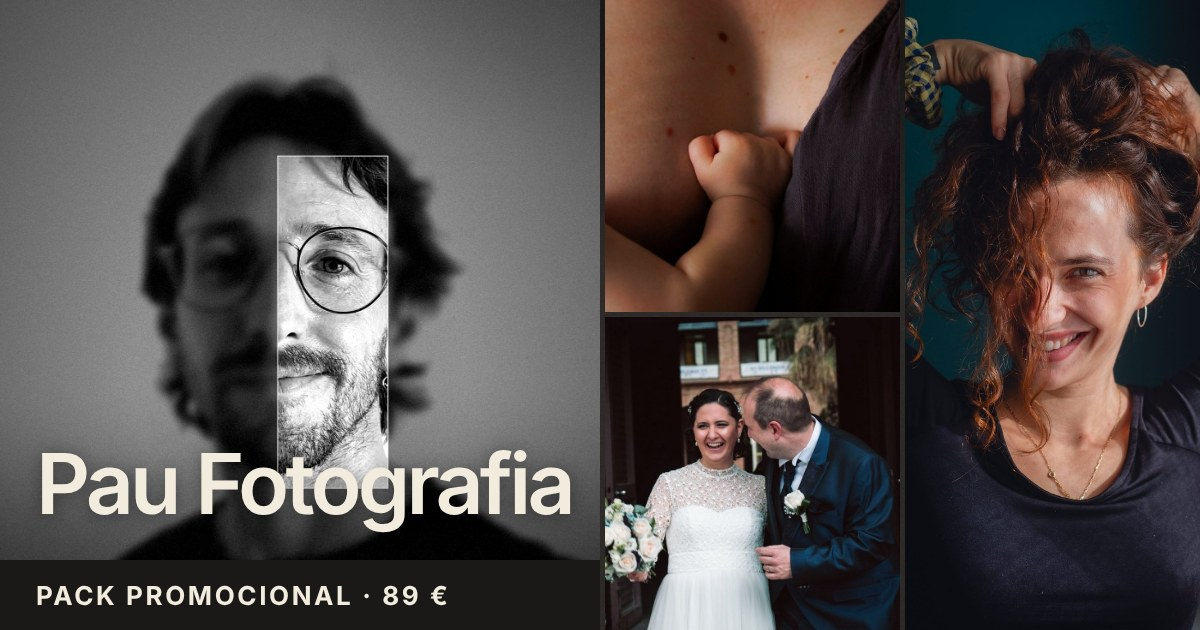
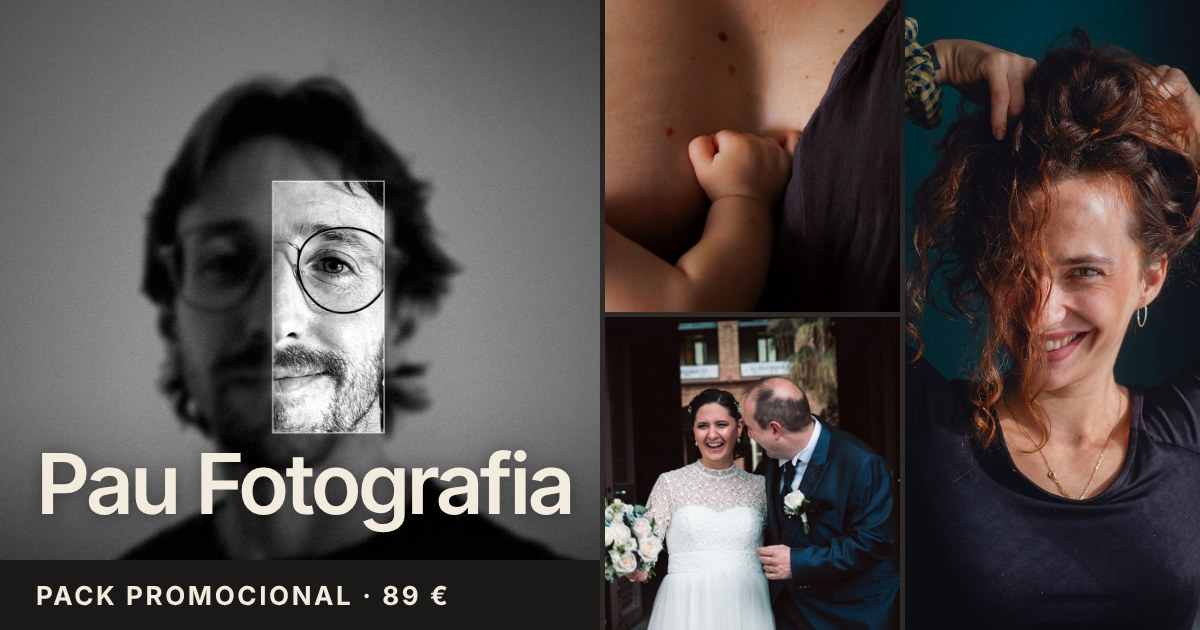
Rectangle de la foto principal més curt i estret; imatge de link actualitzada
Claude-Session: https://claude.ai/code/session_01Gu4fKh15S1mJkh4ThjJ3MW

Changed region(s): [[0.2158, 0.2413, 0.3392, 0.7841]]

diff --git a/index.html b/index.html
@@ -9,7 +9,7 @@
 <meta property="og:type" content="website">
 <meta property="og:title" content="Pau Fotografia · Pack promocional – Llançament · 89 €">
 <meta property="og:description" content="Sessió de 45 min – 1 h, 15 – 20 fotografies. Retrat · Família · Embaràs · Parella. Vàlid per a reserves fins al 31/12/2026.">
-<meta property="og:image" content="https://pau-fotografia.pages.dev/pack/og.jpg?v=9">
+<meta property="og:image" content="https://pau-fotografia.pages.dev/pack/og.jpg?v=10">
 <meta property="og:image:width" content="1200">
 <meta property="og:image:height" content="630">
 <meta property="og:url" content="https://pau-fotografia.pages.dev/">
@@ -217,8 +217,8 @@ button.big{background:none;border:0;padding:0;font-family:inherit;text-align:lef
 }
 
 html,body{background:#1b1918}
[4 lines of base64/hex data omitted]
 body,.page{color:#f2ecde}
 .hero h1,.hero .top{color:#f2ecde}
 .page{background-color:#1b1918;background-image:url(/pack/paper-tile.png?v=2),linear-gradient(180deg,#1b1918 0%,#1b1918 12%,#2d2a28 32%,#2d2a28 100%);background-size:256px 256px,100% 100%;background-blend-mode:overlay,normal}
@@ -258,7 +258,7 @@ body,.page{color:#f2ecde}
 <header class="bar" aria-hidden="true"><a class="wm" href="#inici">Pau Fotografia</a><nav><a href="#contacte" data-t="cont">Contacte</a></nav></header>
 <main class="page" id="inici">
   <section class="hero">
-    <picture><source media="(min-width:1200px)" srcset="/pack/hero-wide.jpg?v=20261118b"><img src="/pack/hero.jpg?v=20261118b" alt="Pau amb ulleres, fons desenfocat i una finestra nítida sobre mig rostre" fetchpriority="high"></picture>
+    <picture><source media="(min-width:1200px)" srcset="/pack/hero-wide.jpg?v=20261118c"><img src="/pack/hero.jpg?v=20261118c" alt="Pau amb ulleres, fons desenfocat i una finestra nítida sobre mig rostre" fetchpriority="high"></picture>
     <div class="top"><div class="sm" data-t="tag">Fotògraf social i documental</div>
       <div class="ctrls"><div class="toggle lang" role="group" aria-label="Idioma"><button class="on" data-lang="ca">CAT</button><span>|</span><button data-lang="es">ESP</button><span>|</span><button data-lang="en">ENG</button></div></div></div>
     <h1>Pau Fotografia</h1>
@@ -269,14 +269,14 @@ body,.page{color:#f2ecde}
     <div class="quote"><p data-t="quote">«El document humà per mantenir el present i el futur en contacte amb el passat.»</p><div class="lb">Lewis Hine</div></div>
   </section>
   <div class="hl"></div>
-  <div class="slider multi sl-elvi" style="aspect-ratio:1080/1150"><div class="track"><figure class="slide"><img class="b" data-v="elvi" src="/pack/elvi-color.jpg?v=20261118b" alt="Elvi somrient amb un floc de cabell davant la cara" loading="eager" style="object-position:50% 30%"><img class="o" data-v="elvi" src="/pack/elvi-bn.jpg?v=20261118b" alt="" aria-hidden="true" loading="lazy" style="object-position:50% 30%"><button class="sw" type="button" aria-label="Veure en blanc i negre"><i></i></button></figure><figure class="slide"><img class="b" data-v="elvi-01" src="/pack/elvi-01-color.jpg?v=20261118b" alt="Elvi amb les mans als cabells" loading="lazy" style="object-position:50% 30%"><img class="o" data-v="elvi-01" src="/pack/elvi-01-bn.jpg?v=20261118b" alt="" aria-hidden="true" loading="lazy" style="object-position:50% 30%"><button class="sw" type="button" aria-label="Veure en blanc i negre"><i></i></button></figure><figure class="slide"><img class="b" data-v="elvi-03" src="/pack/elvi-03-color.jpg?v=20261118b" alt="Elvi mirant de reüll" loading="lazy" style="object-position:50% 30%"><img class="o" data-v="elvi-03" src="/pack/elvi-03-bn.jpg?v=20261118b" alt="" aria-hidden="true" loading="lazy" style="object-position:50% 30%"><button class="sw" type="button" aria-label="Veure en blanc i negre"><i></i></button></figure><figure class="slide"><img class="b" data-v="elvi-04" src="/pack/elvi-04-color.jpg?v=20261118b" alt="Elvi de perfil a la finestra" loading="lazy" style="object-position:50% 30%"><img class="o" data-v="elvi-04" src="/pack/elvi-04-bn.jpg?v=20261118b" alt="" aria-hidden="true" loading="lazy" style="object-position:50% 30%"><button class="sw" type="button" aria-label="Veure en blanc i negre"><i></i></button></figure><figure class="slide"><img class="b" data-v="elvi-05" src="/pack/elvi-05-color.jpg?v=20261118b" alt="Elvi amb la llum de la cortina" loading="lazy" style="object-position:50% 30%"><img class="o" data-v="elvi-05" src="/pack/elvi-05-bn.jpg?v=20261118b" alt="" aria-hidden="true" loading="lazy" style="object-position:50% 30%"><button class="sw" type="button" aria-label="Veure en blanc i negre"><i></i></button></figure></div><div class="dots"><i class=on></i><i></i><i></i><i></i><i></i></div><div class="count">1/5</div><button class="nav prev" aria-label="Anterior">‹</button><button class="nav next" aria-label="Següent">›</button></div>
+  <div class="slider multi sl-elvi" style="aspect-ratio:1080/1150"><div class="track"><figure class="slide"><img class="b" data-v="elvi" src="/pack/elvi-color.jpg?v=20261118c" alt="Elvi somrient amb un floc de cabell davant la cara" loading="eager" style="object-position:50% 30%"><img class="o" data-v="elvi" src="/pack/elvi-bn.jpg?v=20261118c" alt="" aria-hidden="true" loading="lazy" style="object-position:50% 30%"><button class="sw" type="button" aria-label="Veure en blanc i negre"><i></i></button></figure><figure class="slide"><img class="b" data-v="elvi-01" src="/pack/elvi-01-color.jpg?v=20261118c" alt="Elvi amb les mans als cabells" loading="lazy" style="object-position:50% 30%"><img class="o" data-v="elvi-01" src="/pack/elvi-01-bn.jpg?v=20261118c" alt="" aria-hidden="true" loading="lazy" style="object-position:50% 30%"><button class="sw" type="button" aria-label="Veure en blanc i negre"><i></i></button></figure><figure class="slide"><img class="b" data-v="elvi-03" src="/pack/elvi-03-color.jpg?v=20261118c" alt="Elvi mirant de reüll" loading="lazy" style="object-position:50% 30%"><img class="o" data-v="elvi-03" src="/pack/elvi-03-bn.jpg?v=20261118c" alt="" aria-hidden="true" loading="lazy" style="object-position:50% 30%"><button class="sw" type="button" aria-label="Veure en blanc i negre"><i></i></button></figure><figure class="slide"><img class="b" data-v="elvi-04" src="/pack/elvi-04-color.jpg?v=20261118c" alt="Elvi de perfil a la finestra" loading="lazy" style="object-position:50% 30%"><img class="o" data-v="elvi-04" src="/pack/elvi-04-bn.jpg?v=20261118c" alt="" aria-hidden="true" loading="lazy" style="object-position:50% 30%"><button class="sw" type="button" aria-label="Veure en blanc i negre"><i></i></button></figure><figure class="slide"><img class="b" data-v="elvi-05" src="/pack/elvi-05-color.jpg?v=20261118c" alt="Elvi amb la llum de la cortina" loading="lazy" style="object-position:50% 30%"><img class="o" data-v="elvi-05" src="/pack/elvi-05-bn.jpg?v=20261118c" alt="" aria-hidden="true" loading="lazy" style="object-position:50% 30%"><button class="sw" type="button" aria-label="Veure en blanc i negre"><i></i></button></figure></div><div class="dots"><i class=on></i><i></i><i></i><i></i><i></i></div><div class="count">1/5</div><button class="nav prev" aria-label="Anterior">‹</button><button class="nav next" aria-label="Següent">›</button></div>
   <div class="hl"></div>
   <section class="com pad">
     <div class="lb" data-t="com">Com treballo</div>
     <p class="body" data-t="ct">Sense estudi ni decorats, als llocs quotidians i còmodes. Tu tries l'espai i el vestuari. Jo m'adapto i interfereixo el mínim perquè la càmera no sigui un obstacle per captar aquell gest, somriure o mirada espontània i real.</p>
   </section>
   <div class="hl"></div>
-  <div class="pair"><div class="slider multi sl-nuvis" style="aspect-ratio:540/720"><div class="track"><figure class="slide"><img class="b" data-v="nuvis" src="/pack/nuvis-color.jpg?v=20261118b" alt="Parella de nuvis rient a la porta" loading="lazy" style="object-position:50% 50%"><img class="o" data-v="nuvis" src="/pack/nuvis-bn.jpg?v=20261118b" alt="" aria-hidden="true" loading="lazy" style="object-position:50% 50%"><button class="sw" type="button" aria-label="Veure en blanc i negre"><i></i></button></figure><figure class="slide"><img class="b" data-v="casament-pandemia-05" src="/pack/casament-pandemia-05-color.jpg?v=20261118b" alt="Nuvis amb mascareta" loading="lazy" style="object-position:50% 50%"><img class="o" data-v="casament-pandemia-05" src="/pack/casament-pandemia-05-bn.jpg?v=20261118b" alt="" aria-hidden="true" loading="lazy" style="object-position:50% 50%"><button class="sw" type="button" aria-label="Veure en blanc i negre"><i></i></button></figure><figure class="slide"><img class="b" data-v="casament-pandemia-02" src="/pack/casament-pandemia-02-color.jpg?v=20261118b" alt="Ajustant el vestit" loading="lazy" style="object-position:50% 30%"><img class="o" data-v="casament-pandemia-02" src="/pack/casament-pandemia-02-bn.jpg?v=20261118b" alt="" aria-hidden="true" loading="lazy" style="object-position:50% 30%"><button class="sw" type="button" aria-label="Veure en blanc i negre"><i></i></button></figure><figure class="slide mono"><img class="b" data-v="casament-pandemia-04" src="/pack/casament-pandemia-04-bn.jpg?v=20261118b" alt="Sortida entre arròs" loading="lazy" style="object-position:50% 50%"></figure><figure class="slide mono"><img class="b" data-v="casament-pandemia-08" src="/pack/casament-pandemia-08-bn.jpg?v=20261118b" alt="La cerimònia" loading="lazy" style="object-position:50% 50%"></figure><figure class="slide mono"><img class="b" data-v="casament-pandemia-01" src="/pack/casament-pandemia-01-bn.jpg?v=20261118b" alt="Pentinat davant del mirall" loading="lazy" style="object-position:50% 50%"></figure></div><div class="dots"><i class=on></i><i></i><i></i><i></i><i></i><i></i></div><div class="count">1/6</div><button class="nav prev" aria-label="Anterior">‹</button><button class="nav next" aria-label="Següent">›</button></div><div class="slider multi sl-maneta" style="aspect-ratio:540/720"><div class="track"><figure class="slide"><img class="b" data-v="maneta" src="/pack/maneta-color.jpg?v=20261118b" alt="Mà d’un nadó sobre la pell" loading="lazy" style="object-position:50% 50%"><img class="o" data-v="maneta" src="/pack/maneta-bn.jpg?v=20261118b" alt="" aria-hidden="true" loading="lazy" style="object-position:50% 50%"><button class="sw" type="button" aria-label="Veure en blanc i negre"><i></i></button></figure><figure class="slide mono"><img class="b" data-v="familia-05" src="/pack/familia-05-bn.jpg?v=20261118b" alt="Peus petits" loading="lazy" style="object-position:50% 50%"></figure><figure class="slide"><img class="b" data-v="familia-07" src="/pack/familia-07-color.jpg?v=20261118b" alt="La mà a l’esquena" loading="lazy" style="object-position:50% 50%"><img class="o" data-v="familia-07" src="/pack/familia-07-bn.jpg?v=20261118b" alt="" aria-hidden="true" loading="lazy" style="object-position:50% 50%"><button class="sw" type="button" aria-label="Veure en blanc i negre"><i></i></button></figure></div><div class="dots"><i class=on></i><i></i><i></i></div><div class="count">1/3</div><button class="nav prev" aria-label="Anterior">‹</button><button class="nav next" aria-label="Següent">›</button></div></div>
+  <div class="pair"><div class="slider multi sl-nuvis" style="aspect-ratio:540/720"><div class="track"><figure class="slide"><img class="b" data-v="nuvis" src="/pack/nuvis-color.jpg?v=20261118c" alt="Parella de nuvis rient a la porta" loading="lazy" style="object-position:50% 50%"><img class="o" data-v="nuvis" src="/pack/nuvis-bn.jpg?v=20261118c" alt="" aria-hidden="true" loading="lazy" style="object-position:50% 50%"><button class="sw" type="button" aria-label="Veure en blanc i negre"><i></i></button></figure><figure class="slide"><img class="b" data-v="casament-pandemia-05" src="/pack/casament-pandemia-05-color.jpg?v=20261118c" alt="Nuvis amb mascareta" loading="lazy" style="object-position:50% 50%"><img class="o" data-v="casament-pandemia-05" src="/pack/casament-pandemia-05-bn.jpg?v=20261118c" alt="" aria-hidden="true" loading="lazy" style="object-position:50% 50%"><button class="sw" type="button" aria-label="Veure en blanc i negre"><i></i></button></figure><figure class="slide"><img class="b" data-v="casament-pandemia-02" src="/pack/casament-pandemia-02-color.jpg?v=20261118c" alt="Ajustant el vestit" loading="lazy" style="object-position:50% 30%"><img class="o" data-v="casament-pandemia-02" src="/pack/casament-pandemia-02-bn.jpg?v=20261118c" alt="" aria-hidden="true" loading="lazy" style="object-position:50% 30%"><button class="sw" type="button" aria-label="Veure en blanc i negre"><i></i></button></figure><figure class="slide mono"><img class="b" data-v="casament-pandemia-04" src="/pack/casament-pandemia-04-bn.jpg?v=20261118c" alt="Sortida entre arròs" loading="lazy" style="object-position:50% 50%"></figure><figure class="slide mono"><img class="b" data-v="casament-pandemia-08" src="/pack/casament-pandemia-08-bn.jpg?v=20261118c" alt="La cerimònia" loading="lazy" style="object-position:50% 50%"></figure><figure class="slide mono"><img class="b" data-v="casament-pandemia-01" src="/pack/casament-pandemia-01-bn.jpg?v=20261118c" alt="Pentinat davant del mirall" loading="lazy" style="object-position:50% 50%"></figure></div><div class="dots"><i class=on></i><i></i><i></i><i></i><i></i><i></i></div><div class="count">1/6</div><button class="nav prev" aria-label="Anterior">‹</button><button class="nav next" aria-label="Següent">›</button></div><div class="slider multi sl-maneta" style="aspect-ratio:540/720"><div class="track"><figure class="slide"><img class="b" data-v="maneta" src="/pack/maneta-color.jpg?v=20261118c" alt="Mà d’un nadó sobre la pell" loading="lazy" style="object-position:50% 50%"><img class="o" data-v="maneta" src="/pack/maneta-bn.jpg?v=20261118c" alt="" aria-hidden="true" loading="lazy" style="object-position:50% 50%"><button class="sw" type="button" aria-label="Veure en blanc i negre"><i></i></button></figure><figure class="slide mono"><img class="b" data-v="familia-05" src="/pack/familia-05-bn.jpg?v=20261118c" alt="Peus petits" loading="lazy" style="object-position:50% 50%"></figure><figure class="slide"><img class="b" data-v="familia-07" src="/pack/familia-07-color.jpg?v=20261118c" alt="La mà a l’esquena" loading="lazy" style="object-position:50% 50%"><img class="o" data-v="familia-07" src="/pack/familia-07-bn.jpg?v=20261118c" alt="" aria-hidden="true" loading="lazy" style="object-position:50% 50%"><button class="sw" type="button" aria-label="Veure en blanc i negre"><i></i></button></figure></div><div class="dots"><i class=on></i><i></i><i></i></div><div class="count">1/3</div><button class="nav prev" aria-label="Anterior">‹</button><button class="nav next" aria-label="Següent">›</button></div></div>
   <div class="hl"></div>
   <section class="pack">
     <div class="prow"><button class="pill" type="button" aria-haspopup="dialog"><span data-t="pack">Pack promocional – Llançament</span><i class="pplus" aria-hidden="true"></i></button><div class="price">89 €<span class="ast">*</span></div>
@@ -284,9 +284,9 @@ body,.page{color:#f2ecde}
     <div class="ptypes" data-t="tipus"><span>Retrat</span><i>·</i><span>Família</span><i>·</i><span>Embaràs</span><i>·</i><span>Parella</span></div>
   </section>
   <div class="hl"></div>
-  <div class="slider sl-mocador" style="aspect-ratio:1080/720"><div class="track"><figure class="slide"><img class="b" data-v="mocador" src="/pack/mocador-color.jpg?v=20261118b" alt="Retrat d’una dona amb mocador entre el fum" loading="lazy" style="object-position:50% 40%"><img class="o" data-v="mocador" src="/pack/mocador-bn.jpg?v=20261118b" alt="" aria-hidden="true" loading="lazy" style="object-position:50% 40%"><button class="sw" type="button" aria-label="Veure en blanc i negre"><i></i></button></figure></div></div>
+  <div class="slider sl-mocador" style="aspect-ratio:1080/720"><div class="track"><figure class="slide"><img class="b" data-v="mocador" src="/pack/mocador-color.jpg?v=20261118c" alt="Retrat d’una dona amb mocador entre el fum" loading="lazy" style="object-position:50% 40%"><img class="o" data-v="mocador" src="/pack/mocador-bn.jpg?v=20261118c" alt="" aria-hidden="true" loading="lazy" style="object-position:50% 40%"><button class="sw" type="button" aria-label="Veure en blanc i negre"><i></i></button></figure></div></div>
   <div class="hl"></div>
-  <div class="pair"><div class="slider multi sl-ulleres" style="aspect-ratio:540/720"><div class="track"><figure class="slide"><img class="b" data-v="ulleres" src="/pack/ulleres-color.jpg?v=20261118b" alt="Home rient amb ulleres de sol" loading="lazy" style="object-position:50% 50%"><img class="o" data-v="ulleres" src="/pack/ulleres-bn.jpg?v=20261118b" alt="" aria-hidden="true" loading="lazy" style="object-position:50% 50%"><button class="sw" type="button" aria-label="Veure en blanc i negre"><i></i></button></figure><figure class="slide"><img class="b" data-v="llum-desembre-05" src="/pack/llum-desembre-05-color.jpg?v=20261118b" alt="Cara al sol" loading="lazy" style="object-position:64% 50%"><img class="o" data-v="llum-desembre-05" src="/pack/llum-desembre-05-bn.jpg?v=20261118b" alt="" aria-hidden="true" loading="lazy" style="object-position:64% 50%"><button class="sw" type="button" aria-label="Veure en blanc i negre"><i></i></button></figure><figure class="slide"><img class="b" data-v="llum-desembre-02" src="/pack/llum-desembre-02-color.jpg?v=20261118b" alt="Somriure amb caputxa" loading="lazy" style="object-position:52% 50%"><img class="o" data-v="llum-desembre-02" src="/pack/llum-desembre-02-bn.jpg?v=20261118b" alt="" aria-hidden="true" loading="lazy" style="object-position:52% 50%"><button class="sw" type="button" aria-label="Veure en blanc i negre"><i></i></button></figure><figure class="slide"><img class="b" data-v="llum-desembre-04" src="/pack/llum-desembre-04-color.jpg?v=20261118b" alt="Per sobre de les ulleres" loading="lazy" style="object-position:56% 50%"><img class="o" data-v="llum-desembre-04" src="/pack/llum-desembre-04-bn.jpg?v=20261118b" alt="" aria-hidden="true" loading="lazy" style="object-position:56% 50%"><button class="sw" type="button" aria-label="Veure en blanc i negre"><i></i></button></figure><figure class="slide"><img class="b" data-v="llum-desembre-01" src="/pack/llum-desembre-01-color.jpg?v=20261118b" alt="Mitja cara a la llum" loading="lazy" style="object-position:54% 50%"><img class="o" data-v="llum-desembre-01" src="/pack/llum-desembre-01-bn.jpg?v=20261118b" alt="" aria-hidden="true" loading="lazy" style="object-position:54% 50%"><button class="sw" type="button" aria-label="Veure en blanc i negre"><i></i></button></figure></div><div class="dots"><i class=on></i><i></i><i></i><i></i><i></i></div><div class="count">1/5</div><button class="nav prev" aria-label="Anterior">‹</button><button class="nav next" aria-label="Següent">›</button></div><div class="slider multi sl-confeti" style="aspect-ratio:540/720"><div class="track"><figure class="slide"><img class="b" data-v="confeti" src="/pack/confeti-color.jpg?v=20261118b" alt="Nuvis sortint entre confeti amb el ram a l’aire" loading="lazy" style="object-position:64% 50%"><img class="o" data-v="confeti" src="/pack/confeti-bn.jpg?v=20261118b" alt="" aria-hidden="true" loading="lazy" style="object-position:64% 50%"><button class="sw" type="button" aria-label="Veure en blanc i negre"><i></i></button></figure><figure class="slide"><img class="b" data-v="casament-01" src="/pack/casament-01-color.jpg?v=20261118b" alt="Sortida entre confeti" loading="lazy" style="object-position:55% 50%"><img class="o" data-v="casament-01" src="/pack/casament-01-bn.jpg?v=20261118b" alt="" aria-hidden="true" loading="lazy" style="object-position:55% 50%"><button class="sw" type="button" aria-label="Veure en blanc i negre"><i></i></button></figure></div><div class="dots"><i class=on></i><i></i></div><div class="count">1/2</div><button class="nav prev" aria-label="Anterior">‹</button><button class="nav next" aria-label="Següent">›</button></div></div>
+  <div class="pair"><div class="slider multi sl-ulleres" style="aspect-ratio:540/720"><div class="track"><figure class="slide"><img class="b" data-v="ulleres" src="/pack/ulleres-color.jpg?v=20261118c" alt="Home rient amb ulleres de sol" loading="lazy" style="object-position:50% 50%"><img class="o" data-v="ulleres" src="/pack/ulleres-bn.jpg?v=20261118c" alt="" aria-hidden="true" loading="lazy" style="object-position:50% 50%"><button class="sw" type="button" aria-label="Veure en blanc i negre"><i></i></button></figure><figure class="slide"><img class="b" data-v="llum-desembre-05" src="/pack/llum-desembre-05-color.jpg?v=20261118c" alt="Cara al sol" loading="lazy" style="object-position:64% 50%"><img class="o" data-v="llum-desembre-05" src="/pack/llum-desembre-05-bn.jpg?v=20261118c" alt="" aria-hidden="true" loading="lazy" style="object-position:64% 50%"><button class="sw" type="button" aria-label="Veure en blanc i negre"><i></i></button></figure><figure class="slide"><img class="b" data-v="llum-desembre-02" src="/pack/llum-desembre-02-color.jpg?v=20261118c" alt="Somriure amb caputxa" loading="lazy" style="object-position:52% 50%"><img class="o" data-v="llum-desembre-02" src="/pack/llum-desembre-02-bn.jpg?v=20261118c" alt="" aria-hidden="true" loading="lazy" style="object-position:52% 50%"><button class="sw" type="button" aria-label="Veure en blanc i negre"><i></i></button></figure><figure class="slide"><img class="b" data-v="llum-desembre-04" src="/pack/llum-desembre-04-color.jpg?v=20261118c" alt="Per sobre de les ulleres" loading="lazy" style="object-position:56% 50%"><img class="o" data-v="llum-desembre-04" src="/pack/llum-desembre-04-bn.jpg?v=20261118c" alt="" aria-hidden="true" loading="lazy" style="object-position:56% 50%"><button class="sw" type="button" aria-label="Veure en blanc i negre"><i></i></button></figure><figure class="slide"><img class="b" data-v="llum-desembre-01" src="/pack/llum-desembre-01-color.jpg?v=20261118c" alt="Mitja cara a la llum" loading="lazy" style="object-position:54% 50%"><img class="o" data-v="llum-desembre-01" src="/pack/llum-desembre-01-bn.jpg?v=20261118c" alt="" aria-hidden="true" loading="lazy" style="object-position:54% 50%"><button class="sw" type="button" aria-label="Veure en blanc i negre"><i></i></button></figure></div><div class="dots"><i class=on></i><i></i><i></i><i></i><i></i></div><div class="count">1/5</div><button class="nav prev" aria-label="Anterior">‹</button><button class="nav next" aria-label="Següent">›</button></div><div class="slider multi sl-confeti" style="aspect-ratio:540/720"><div class="track"><figure class="slide"><img class="b" data-v="confeti" src="/pack/confeti-color.jpg?v=20261118c" alt="Nuvis sortint entre confeti amb el ram a l’aire" loading="lazy" style="object-position:64% 50%"><img class="o" data-v="confeti" src="/pack/confeti-bn.jpg?v=20261118c" alt="" aria-hidden="true" loading="lazy" style="object-position:64% 50%"><button class="sw" type="button" aria-label="Veure en blanc i negre"><i></i></button></figure><figure class="slide"><img class="b" data-v="casament-01" src="/pack/casament-01-color.jpg?v=20261118c" alt="Sortida entre confeti" loading="lazy" style="object-position:55% 50%"><img class="o" data-v="casament-01" src="/pack/casament-01-bn.jpg?v=20261118c" alt="" aria-hidden="true" loading="lazy" style="object-position:55% 50%"><button class="sw" type="button" aria-label="Veure en blanc i negre"><i></i></button></figure></div><div class="dots"><i class=on></i><i></i></div><div class="count">1/2</div><button class="nav prev" aria-label="Anterior">‹</button><button class="nav next" aria-label="Següent">›</button></div></div>
   <div class="hl"></div>
   <section class="contact pad" id="contacte">
     <div class="gear">
@@ -323,7 +323,7 @@ document.querySelectorAll('.slider.multi').forEach(function(s){
 var MODE='color';
 function L(){var l=document.documentElement.lang;return {ca:{swb:'Veure en blanc i negre',swc:'Veure en color'},es:{swb:'Ver en blanco y negro',swc:'Ver en color'},en:{swb:'View in black and white',swc:'View in colour'}}[l]||{swb:'Veure en blanc i negre',swc:'Veure en color'}}
 function other(){return MODE==='bn'?'color':'bn'}
-function src2(o){return '/pack/'+o.dataset.v+'-'+other()+'.jpg?v=20261118b'}
+function src2(o){return '/pack/'+o.dataset.v+'-'+other()+'.jpg?v=20261118c'}
 function setX(f,x,anim){
   var o=f.querySelector('.o');if(!o.getAttribute('src'))o.src=src2(o);
   f.classList.toggle('drag',!anim);f._x=x;
